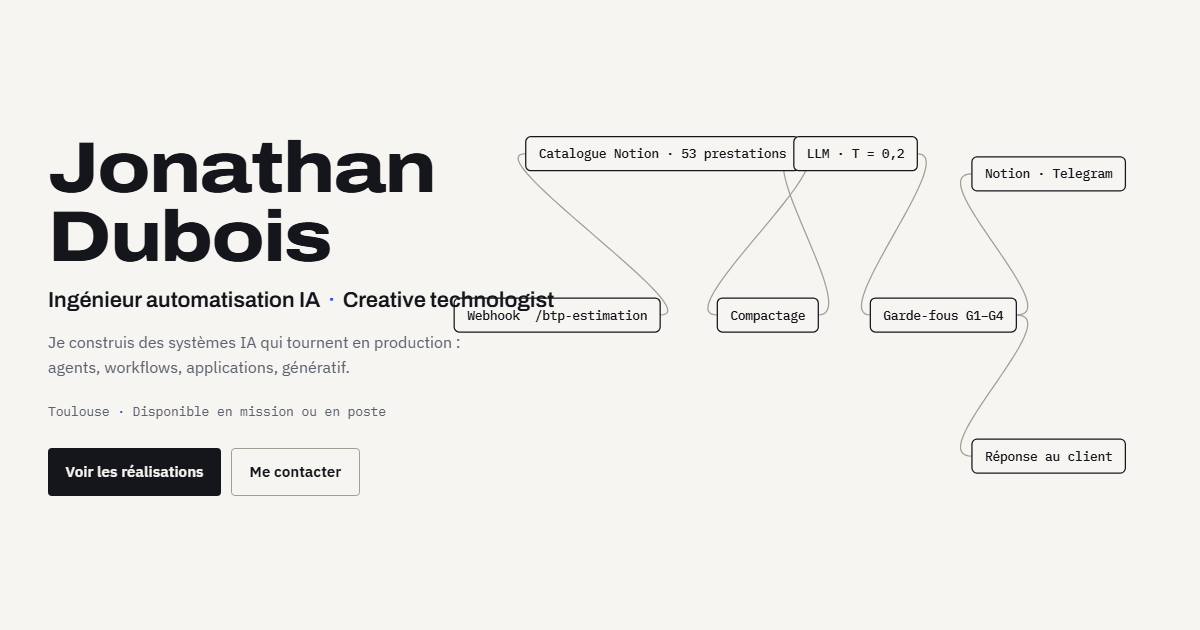
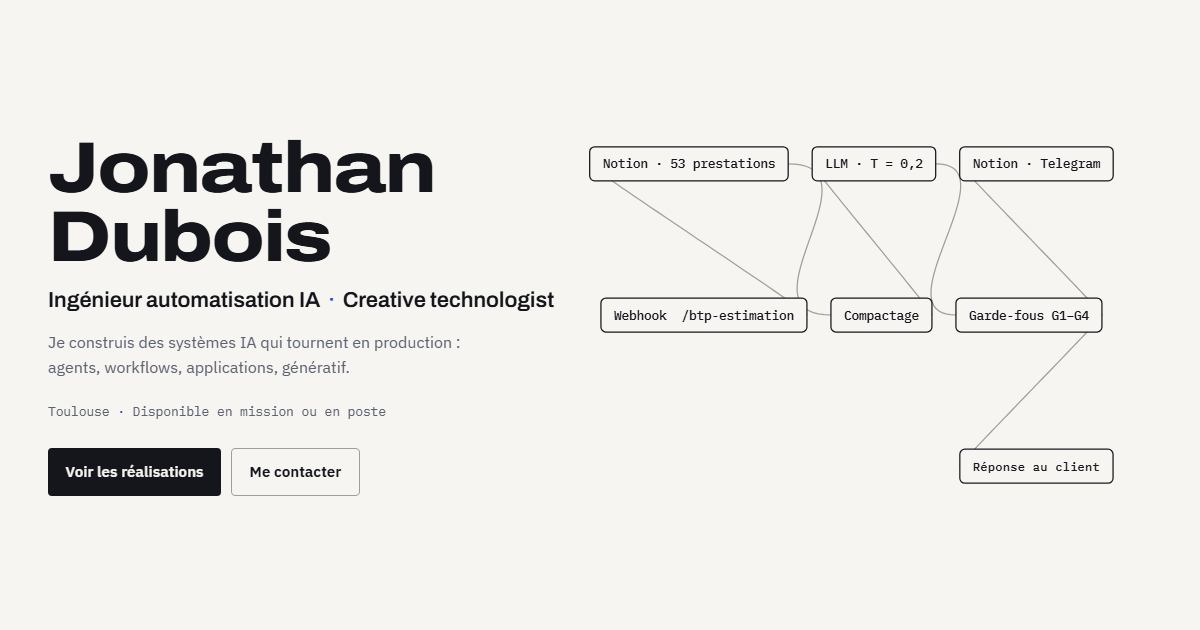
Hero : le graphe démarre après le texte et se dispose par rangées sans chevauchement (og regénéré)
Claude-Session: https://claude.ai/code/session_01Y1pgYfq7LfJdiK22Gvx5wP

Changed region(s): [[0.4317, 0.2111, 0.9558, 0.3317], [0.37, 0.4524, 0.925, 0.5429], [0.8017, 0.6937, 0.9558, 0.7841]]

diff --git a/tests/flux-geometrie.test.ts b/tests/flux-geometrie.test.ts
@@ -1,10 +1,10 @@
 import { describe, it, expect } from "vitest";
-import { NOEUDS, ARETES, TRAJETS, DEBUT_PULSE, PERIODE, SEUIL_ETROIT, region, boite, ease, pointBezier, impulsion, type Boite } from "../src/scripts/flux-geometrie";
+import { NOEUDS, ARETES, TRAJETS, DEBUT_PULSE, PERIODE, SEUIL_ETROIT, RANGEES, RANGEE_Y, ECART, region, disposer, ease, pointBezier, impulsion, type Boite } from "../src/scripts/flux-geometrie";
 
 describe("le graphe", () => {
   it("porte les sept briques réelles de l'estimateur, dans l'ordre", () => {
     expect(NOEUDS.map((n) => n.l)).toEqual([
-      "Webhook  /btp-estimation", "Catalogue Notion · 53 prestations", "Compactage", "LLM · T = 0,2",
+      "Webhook  /btp-estimation", "Notion · 53 prestations", "Compactage", "LLM · T = 0,2",
       "Garde-fous G1–G4", "Notion · Telegram", "Réponse au client",
     ]);
   });
@@ -19,17 +19,63 @@ describe("region", () => {
   it("bureau : les 53 % de droite", () => {
     expect(region(1000, 700)).toEqual({ x: 440, y: 70, w: 530, h: 560 });
   });
+  it("bureau, xMin donné : démarre après le texte", () => {
+    expect(region(1000, 700, 600)).toEqual({ x: 600, y: 70, w: 370, h: 560 });
+  });
   it("téléphone : toute la largeur moins les marges", () => {
     expect(region(390, 600)).toEqual({ x: 10, y: 12, w: 370, h: 576 });
     expect(SEUIL_ETROIT).toBe(760);
   });
 });
 
-describe("boite", () => {
-  it("prend la largeur du texte plus 26, plafonnée à la moitié de la région", () => {
-    const R = { x: 0, y: 0, w: 400, h: 300 };
-    expect(boite({ l: "x", x: 0.5, y: 0.5 }, R, 100)).toEqual({ cx: 200, cy: 150, w: 126, h: 34 });
-    expect(boite({ l: "x", x: 0.5, y: 0.5 }, R, 900).w).toBe(200);
+describe("disposer", () => {
+  const R = { x: 100, y: 0, w: 600, h: 300 };
+  const largeurs = [150, 250, 80, 90, 120, 110, 120];
+
+  it("range chaque rangée sans chevauchement, à l'intérieur de la région", () => {
+    const B = disposer(largeurs, R);
+    for (const rangee of [RANGEES[0], RANGEES[1]]) {
+      const tries = [...rangee].sort((a, b) => B[a].cx - B[b].cx);
+      for (let k = 0; k < tries.length - 1; k++) {
+        const a = B[tries[k]], b = B[tries[k + 1]];
+        expect(a.cx + a.w / 2 + ECART).toBeLessThanOrEqual(b.cx - b.w / 2 + 1e-6);
+      }
+      for (const i of rangee) {
+        expect(B[i].cx - B[i].w / 2).toBeGreaterThanOrEqual(R.x - 1e-6);
+        expect(B[i].cx + B[i].w / 2).toBeLessThanOrEqual(R.x + R.w + 1e-6);
+      }
+    }
+  });
+
+  it("rétrécit une rangée trop large pour tenir exactement dans la largeur", () => {
+    const Retroit = { x: 100, y: 0, w: 300, h: 300 };
+    const B = disposer(largeurs, Retroit);
+    const rangee = RANGEES[0];
+    const sommeW = rangee.reduce((s, i) => s + B[i].w, 0);
+    expect(sommeW + ECART * (rangee.length - 1)).toBeCloseTo(300, 5);
+    const tries = [...rangee].sort((a, b) => B[a].cx - B[b].cx);
+    for (let k = 0; k < tries.length - 1; k++) {
+      const a = B[tries[k]], b = B[tries[k + 1]];
+      expect(a.cx + a.w / 2 + ECART).toBeLessThanOrEqual(b.cx - b.w / 2 + 1e-6);
+    }
+  });
+
+  it("le nœud 6 s'aligne sous le nœud 5 et reste dans la région", () => {
+    const B = disposer(largeurs, R);
+    expect(B[6].cy).toBe(R.y + 0.8 * R.h);
+    expect(B[6].cx).toBe(B[5].cx);
+    expect(B[6].cx + B[6].w / 2).toBeLessThanOrEqual(R.x + R.w + 1e-6);
+
+    const Retroit = { x: 0, y: 0, w: 120, h: 300 };
+    const Betroit = disposer(largeurs, Retroit);
+    expect(Betroit[6].cx + Betroit[6].w / 2).toBeLessThanOrEqual(Retroit.x + Retroit.w + 1e-6);
+  });
+
+  it("chaque rangée est à l'ordonnée attendue", () => {
+    const B = disposer(largeurs, R);
+    RANGEES.forEach((rangee, r) => {
+      for (const i of rangee) expect(B[i].cy).toBe(R.y + RANGEE_Y[r] * R.h);
+    });
   });
 });
 

diff --git a/src/scripts/flux-geometrie.ts b/src/scripts/flux-geometrie.ts
@@ -6,7 +6,7 @@ export type Region = { x: number; y: number; w: number; h: number };
 /** Les briques réelles du workflow d'estimation BTP (spec § 5). Coordonnées normalisées dans la région. */
 export const NOEUDS: Noeud[] = [
   { l: "Webhook  /btp-estimation", x: 0.04, y: 0.5 },
-  { l: "Catalogue Notion · 53 prestations", x: 0.22, y: 0.18 },
+  { l: "Notion · 53 prestations", x: 0.22, y: 0.18 },
   { l: "Compactage", x: 0.4, y: 0.5 },
   { l: "LLM · T = 0,2", x: 0.55, y: 0.18 },
   { l: "Garde-fous G1–G4", x: 0.7, y: 0.5 },
@@ -23,15 +23,39 @@ export const DEBUT_PULSE = 1700; // ms avant la première impulsion
 export const PERIODE = 3400;     // ms pour parcourir un trajet
 export const SEUIL_ETROIT = 760; // px : en dessous, le graphe passe sous le texte
 
-export function region(W: number, H: number): Region {
-  return W < SEUIL_ETROIT
-    ? { x: 10, y: 12, w: W - 20, h: H - 24 }
-    : { x: W * 0.44, y: H * 0.1, w: W * 0.53, h: H * 0.8 };
+export function region(W: number, H: number, xMin?: number): Region {
+  if (W < SEUIL_ETROIT) return { x: 10, y: 12, w: W - 20, h: H - 24 };
+  const x = xMin ?? W * 0.44;
+  return { x, y: H * 0.1, w: W - x - W * 0.03, h: H * 0.8 };
 }
 
-export function boite(n: Noeud, R: Region, largeurTexte: number): Boite {
-  const w = Math.min(largeurTexte + 26, R.w * 0.5);
-  return { cx: R.x + n.x * R.w, cy: R.y + n.y * R.h, w, h: 34 };
+/** Rangées haut / milieu / bas, par indice de nœud, dans l'ordre gauche → droite. */
+export const RANGEES: number[][] = [[1, 3, 5], [0, 2, 4], [6]];
+export const RANGEE_Y = [0.2, 0.5, 0.8];
+export const ECART = 24;   // px entre deux boîtes d'une rangée
+export const MARGE = 26;   // px ajoutés à la largeur du texte
+/** Place les boîtes rangée par rangée sans chevauchement : une rangée trop large est rétrécie
+ *  proportionnellement (les libellés se tronquent au rendu) ; le nœud 6 s'aligne sous le nœud 5. */
+export function disposer(largeurs: number[], R: Region): Boite[] {
+  const boites: Boite[] = largeurs.map(() => ({ cx: 0, cy: 0, w: 0, h: 34 }));
+  RANGEES.forEach((rangee, r) => {
+    if (r === 2) {
+      const b = boites[6], w = Math.min(largeurs[6] + MARGE, R.w);
+      b.w = w; b.cy = R.y + RANGEE_Y[2] * R.h;
+      b.cx = Math.min(boites[5].cx, R.x + R.w - w / 2);
+      return;
+    }
+    let ws = rangee.map((i) => largeurs[i] + MARGE);
+    const gaps = ECART * (rangee.length - 1);
+    const somme = () => ws.reduce((a, b) => a + b, 0);
+    if (somme() + gaps > R.w) { const k = (R.w - gaps) / somme(); ws = ws.map((w) => w * k); }
+    let x = R.x + (R.w - (somme() + gaps)) / 2;
+    rangee.forEach((i, j) => {
+      boites[i].w = ws[j]; boites[i].cx = x + ws[j] / 2; boites[i].cy = R.y + RANGEE_Y[r] * R.h;
+      x += ws[j] + ECART;
+    });
+  });
+  return boites;
 }
 
 export function ease(t: number): number {

diff --git a/src/scripts/flux.ts b/src/scripts/flux.ts
@@ -1,4 +1,4 @@
-import { NOEUDS, ARETES, PAS, DUREE_ARETE, ease, region, boite, pointBezier, impulsion, type Boite } from "./flux-geometrie";
+import { NOEUDS, ARETES, PAS, DUREE_ARETE, SEUIL_ETROIT, ease, region, disposer, pointBezier, impulsion, type Boite } from "./flux-geometrie";
 
 const ENCRE = "#14161c", TRAIT = "#a39d94", FOND = "#f7f5f2", ACCENT = "#2447e0";
 const POLICE = '500 12.5px "IBM Plex Mono", ui-monospace, monospace';
@@ -14,12 +14,12 @@ function ajuster(cv: HTMLCanvasElement) {
   return { ctx, W: r.width, H: r.height };
 }
 
-function dessiner(cv: HTMLCanvasElement, t: number, reduit: boolean) {
+function dessiner(cv: HTMLCanvasElement, t: number, reduit: boolean, xMin: number | undefined) {
   const { ctx, W, H } = ajuster(cv);
   ctx.clearRect(0, 0, W, H);
-  const R = region(W, H);
+  const R = region(W, H, xMin);
   ctx.font = POLICE;
-  const B: Boite[] = NOEUDS.map((n) => boite(n, R, ctx.measureText(n.l).width));
+  const B: Boite[] = disposer(NOEUDS.map((n) => ctx.measureText(n.l).width), R);
 
   // Arêtes, tracées progressivement par échantillonnage.
   for (const [i, j] of ARETES) {
@@ -60,16 +60,22 @@ function dessiner(cv: HTMLCanvasElement, t: number, reduit: boolean) {
 
 /** Démarre le hero : une boucle rAF arrêtée hors écran ; en mouvement réduit, une seule image finale. */
 export function demarrerFlux(cv: HTMLCanvasElement, section: Element, reduit = matchMedia("(prefers-reduced-motion: reduce)").matches) {
+  const texte = section.querySelector<HTMLElement>(".texte");
+  const xMin = () => {
+    const c = cv.getBoundingClientRect();
+    if (!texte || c.width < SEUIL_ETROIT) return undefined;
+    return texte.getBoundingClientRect().right - c.left + 24;
+  };
   if (reduit) {
-    dessiner(cv, 1e9, true);
-    window.addEventListener("resize", () => dessiner(cv, 1e9, true), { passive: true });
+    dessiner(cv, 1e9, true, xMin());
+    window.addEventListener("resize", () => dessiner(cv, 1e9, true, xMin()), { passive: true });
     return;
   }
   let actif = false, t0: number | null = null, raf = 0;
   const tick = (now: number) => {
     if (!actif) return;
     if (t0 === null) t0 = now;
-    dessiner(cv, now - t0, false);
+    dessiner(cv, now - t0, false, xMin());
     raf = requestAnimationFrame(tick);
   };
   const io = new IntersectionObserver((es) => {
